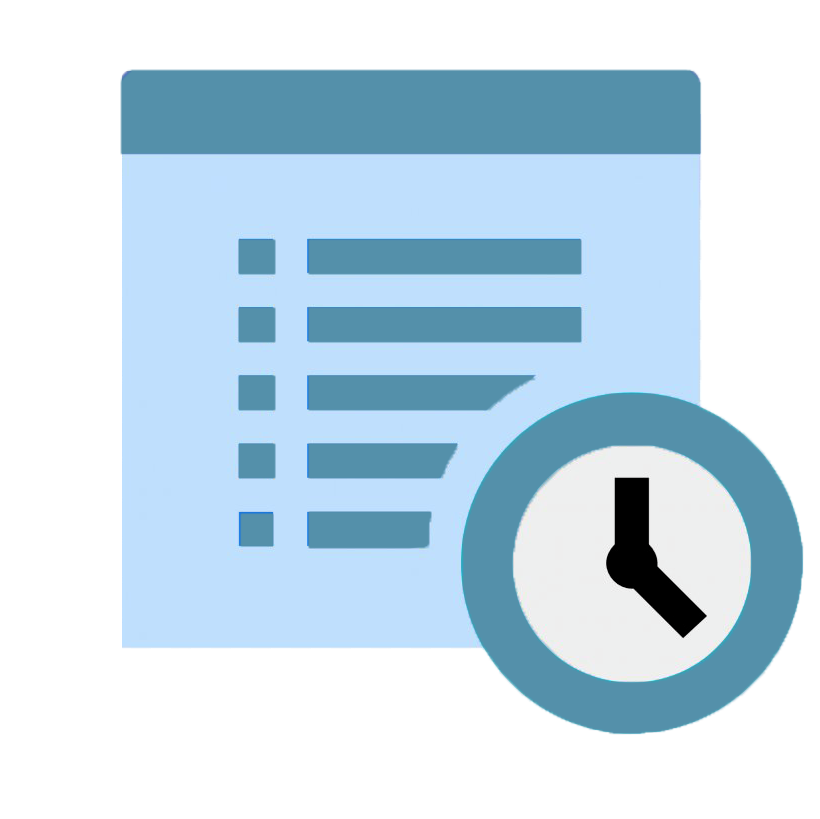
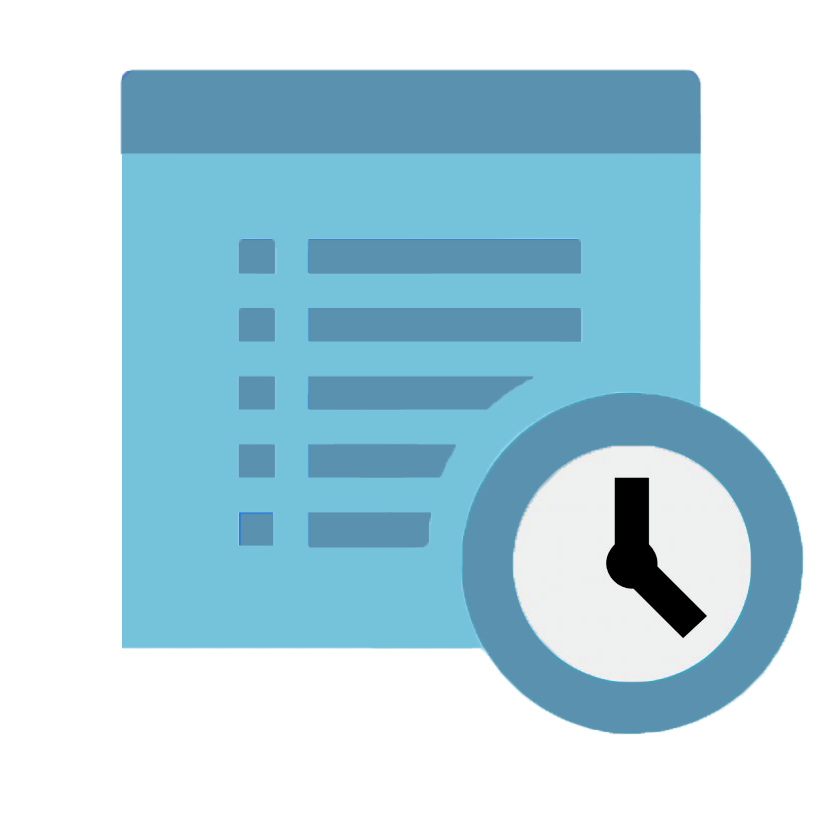
Esteso reminder a 2 giorni prima della fine del mese, modificata colori icona PAT

Changed region(s): [[0.122, 0.1832, 0.8537, 0.7937]]

diff --git a/src/main/java/eu/rationence/pat/PatApplication.java b/src/main/java/eu/rationence/pat/PatApplication.java
@@ -45,19 +45,19 @@ public class PatApplication {
         return new ModelMapper();
     }
 
-    @Scheduled(cron = "0 0 12 L * *")
+    @Scheduled(cron = "0 0 12 L-2 * *")
     public void sendReminderTimeSheetEmail() throws ParseException {
         LocalDate currentDate = LocalDate.now();
-        List<User> uncompiledTimeSheetUserList = userService.findAll();
-        for (User user : uncompiledTimeSheetUserList) {
+        List<User> allUserList = userService.findAll();
+        for (User user : allUserList) {
             MonthlyNote monthlyNote = monthlyNoteService.find(user.getUsername(), new SimpleDateFormat("dd-MM-yyyy").parse("1-" + currentDate.getMonthValue() + "-" + currentDate.getYear()));
-            if (user.isEnabled() && monthlyNote != null && !monthlyNote.isLocked()) {
+            if (user.isEnabled() && (monthlyNote == null || !monthlyNote.isLocked())) {
                 try {
                     emailService.sendSimpleMessage(user.getEmail(), "PAT - Reminder TimeSheet",
                             "Gentile " + user.getName() + "<br><br>" +
-                                    "Essendo l'ultimo giorno del mese e risultando al sistema che il tuo Time Sheet non " +
-                                    "è stato ancora confermato viene inviato automaticamente questo promemoria " +
-                                    "per ricordarti di compilarlo e confermarlo entro oggi.<br><br>" +
+                                    "Essendo gli ultimi giorni del mese e risultando al sistema che il tuo Time Sheet non " +
+                                    "sia stato ancora confermato viene inviato automaticamente questo promemoria " +
+                                    "per ricordarti di compilarlo e confermarlo entro la fine del mese.<br><br>" +
                                     "Grazie!");
                 } catch (Exception e) {
                     logger.error(e.getMessage());
